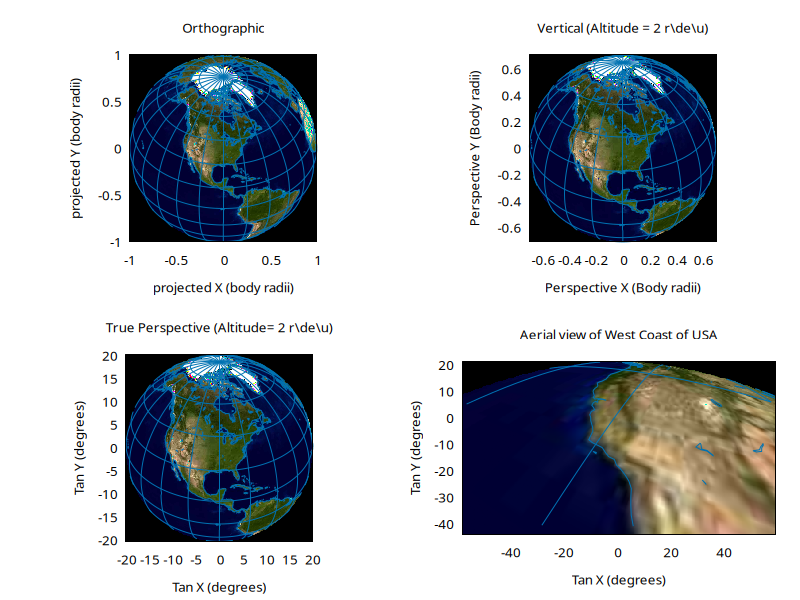
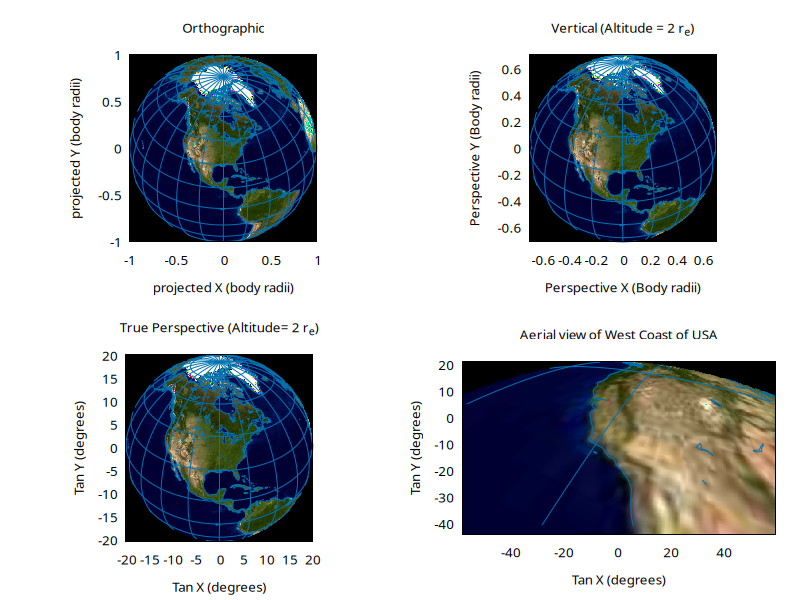
switch some PGPLOT text conventions to Gnuplot ones

Changed region(s): [[0.125, 0.54, 0.4375, 0.57], [0.6562, 0.03, 0.9062, 0.06]]

diff --git a/content/demos/cartography.html b/content/demos/cartography.html
@@ -65,9 +65,9 @@ FITS HEADER INFORMATION:
 
 <hr/>
 The map data are co-aligned with the vector data, which can be drawn
-on top of the window with the "->lines" PGPLOT method.  The
-clean_lines method breaks lines that pass over the map's singularity
-at the 180th parallel.
+on top of the window with the "with polylines" <a href="https://metacpan.org/pod/PDL::Graphics::Simple">PDL::Graphics::Simple</a>
+plot type.  The clean_lines method breaks lines that pass over
+the map's singularity at the 180th parallel.
 <pre>
   $w->hold;
   $w->plot(with=>'polylines', $coast->clean_lines);
@@ -124,9 +124,9 @@ both downward-looking and aerial-view coordinate systems.
 draw( t_orthographic( o=>[-90,40] ), 
       "Orthographic",  [400,300]);
 draw( t_vertical( r0=> (2 + 1), o=>[-90,40] ), 
-      "Vertical (Altitude = 2 r\\de\\u)", [400,300]);
+      "Vertical (Altitude = 2 r_e)", [400,300]);
 draw( t_perspective( r0=> (2 + 1), o=>[-90,40] ),
-      "True Perspective (Altitude= 2 r\\de\\u)", [400,300]);
+      "True Perspective (Altitude= 2 r_e)", [400,300]);
 </pre>
 Observer is 0.1 earth-radii above surface, lon 117W, lat 31N (over Tijuana).
 view is 45 degrees below horizontal, azimuth -22 (338) degrees.

diff --git a/content/demos/pdl.html b/content/demos/pdl.html
@@ -290,16 +290,17 @@ print $y->min,"\n";
 
 <hr/>
 <pre>
+srandom(5);
 print $y->random;
 </pre>
 <h4>Output</h4>
 <pre>
 [
- [        0.47347055         0.32024337         0.67342983         0.38057787         0.98985595]
- [        0.86153101         0.76617741        0.069531386         0.44541038         0.26869431]
- [        0.44684925         0.79884564         0.48338415         0.27909375         0.86272075]
- [        0.84051458         0.84044556         0.34819875         0.48254643        0.029448586]
- [        0.97609542         0.63718662         0.80349816        0.069538432         0.52532639]
+ [        0.48610746        0.050567613        0.057710606         0.65535726         0.54565244]
+ [        0.20891648         0.78710193         0.38285617         0.56954363         0.66010556]
+ [        0.34830639         0.67157606         0.61058777        0.086855999         0.97264637]
+ [        0.81188938         0.68959581         0.91955877         0.93741535         0.41171942]
+ [        0.11688766        0.048093573          0.9170845         0.34885979         0.95169896]
 ]
 </pre>
 
